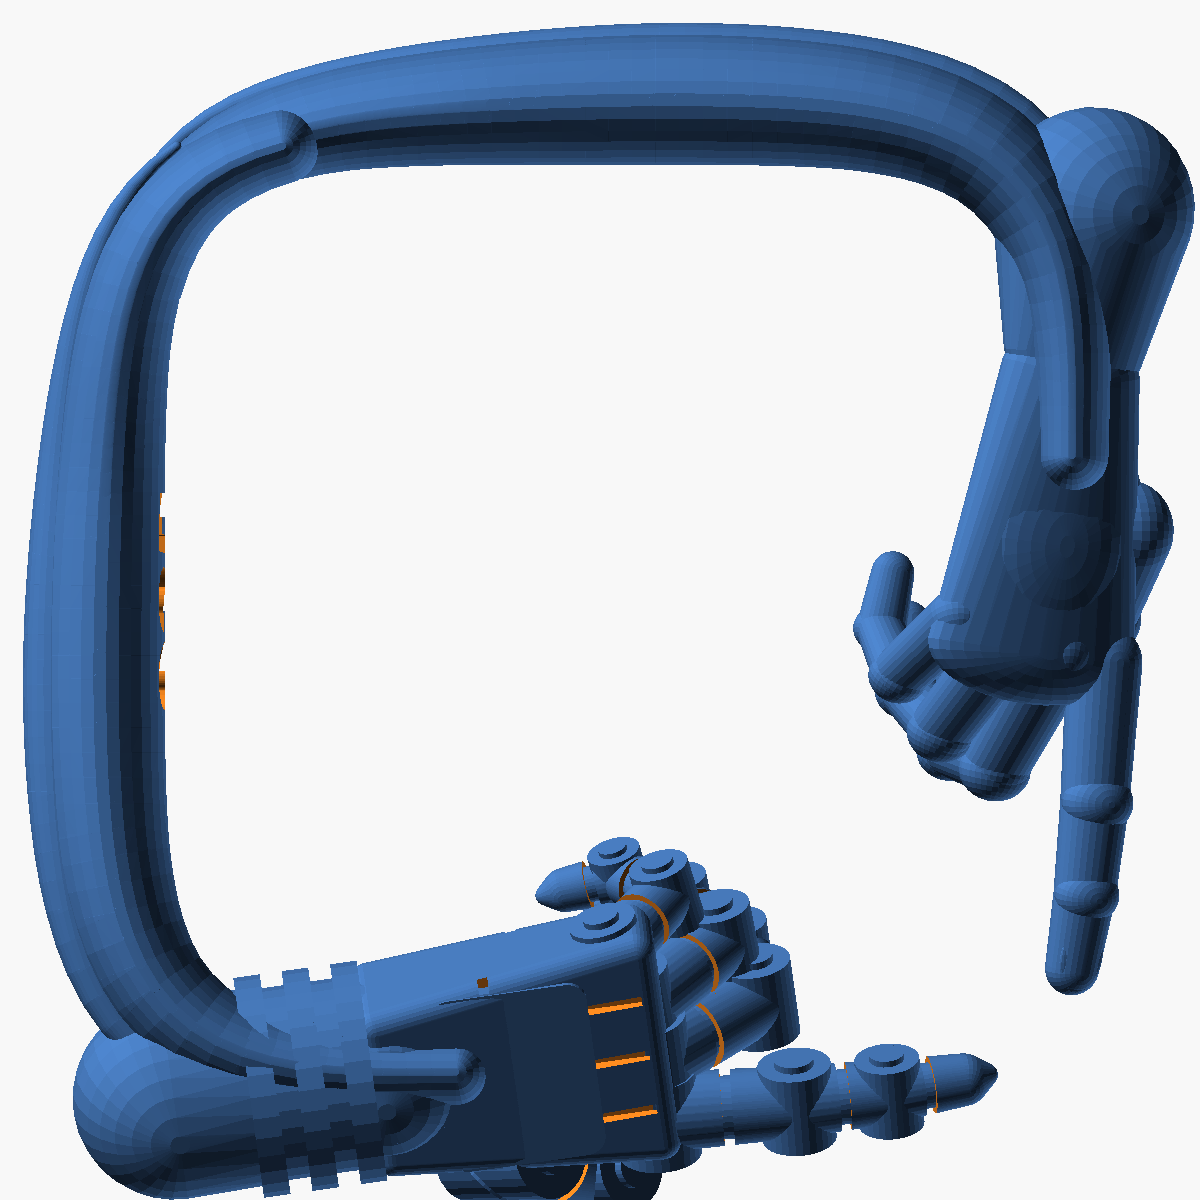
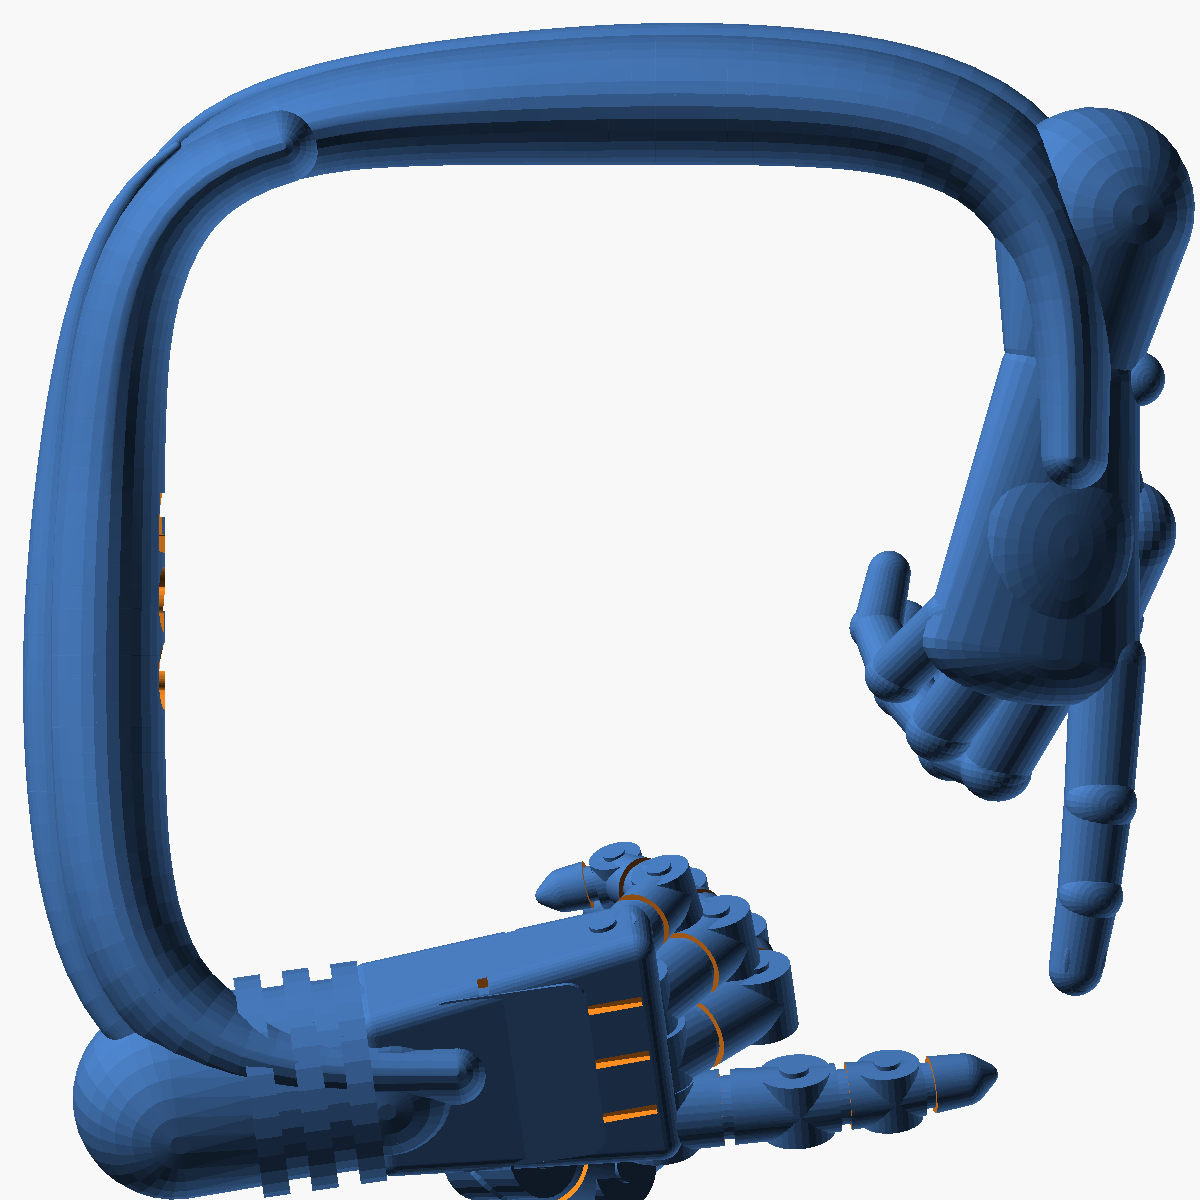
tune(cad): match the hammered-ring reference more closely
Rounder, chunkier hammered oval band with subtler facets, tighter curl on
the tucked fingers, slimmer knuckle hardware, fuller human palm.

Claude-Session: https://claude.ai/code/session_01RsA5ip4f8sea9xDVrZWY8N

diff --git a/cad/creation_cuff/README.md b/cad/creation_cuff/README.md
@@ -95,20 +95,20 @@ openscad -o my_cuff.stl -D '$fn=48' -D 'preset="custom"' \
 | `preset` | `"bangle"` | `"ring"` | `"custom"` uses the `custom_*` values below |
 | `part` | `"assembly"` | | `"band"`, `"human_hand"`, `"robot_hand"` export one piece |
 | `custom_inner_diameter` | 62 | 17.3 | Inside diameter at the thin back of the band |
-| `custom_band_thickness` | 5 | 2.0 | Radial thickness of the band at the back |
-| `custom_band_width` | 5 | 4.2 | Axial width of the band at the back (equal to thickness for a round band) |
-| `custom_band_swell` | 8 | 3.4 | Diameter of the bulb the robot hand grows out of |
+| `custom_band_thickness` | 5 | 2.6 | Radial thickness of the band at the back |
+| `custom_band_width` | 5 | 3.6 | Axial width of the band at the back (equal to thickness for a round band) |
+| `custom_band_swell` | 8 | 3.9 | Diameter of the bulb the robot hand grows out of |
 | `custom_human_end` | `"bulb"` | `"forearm"` | Human side ends in a matching bulb, or the band tapers into the forearm |
-| `custom_band_facets` | 0 | 14 | Facets per circle for the band alone; 12–16 gives planished hammer marks, 0 uses `$fn` |
-| `custom_gap_angle` | 95° | 110° | Opening between the band ends; the hands are sized to fill it |
+| `custom_band_facets` | 0 | 18 | Facets per circle for the band alone; 14–20 gives planished hammer marks, 0 uses `$fn` |
+| `custom_gap_angle` | 95° | 108° | Opening between the band ends; the hands are sized to fill it |
 | `custom_tip_gap` | 3 | 0.8 | Space left between the two fingertips |
 | `custom_finger_thickness` | 1.0 | 1.5 | Multiplier on finger diameters, for castability at small scale |
 | `wrist_bend` | 0.55 | | 0 = hands continue the band's curve, 1 = they point straight across; the hands are lengthened so the tips still meet |
 | `hand_pitch` | 8° | | Droop of the hands below the band plane |
 | `hand_roll` | 0° | | Twist of each hand about its forearm |
-| `finger_curl` | 1.0 | | Scales how tightly the three tucked fingers curl |
+| `finger_curl` | 1.25 | | Scales how tightly the three tucked fingers curl |
 | `swell_span` | 45° | | Length of band, per side, over which it fattens into the wrist |
-| `hammer` | 0.05 | | Hammered relief on the outside of the band, as a fraction of band radius (0 = smooth) |
+| `hammer` | 0.07 | | Hammered relief on the outside of the band, as a fraction of band radius (0 = smooth) |
 | `$fn` | 28 | | Facets per circle; use 48–64 for the final export |
 
 The hands are **derived**: each one heads out along the band's tangent, bent
